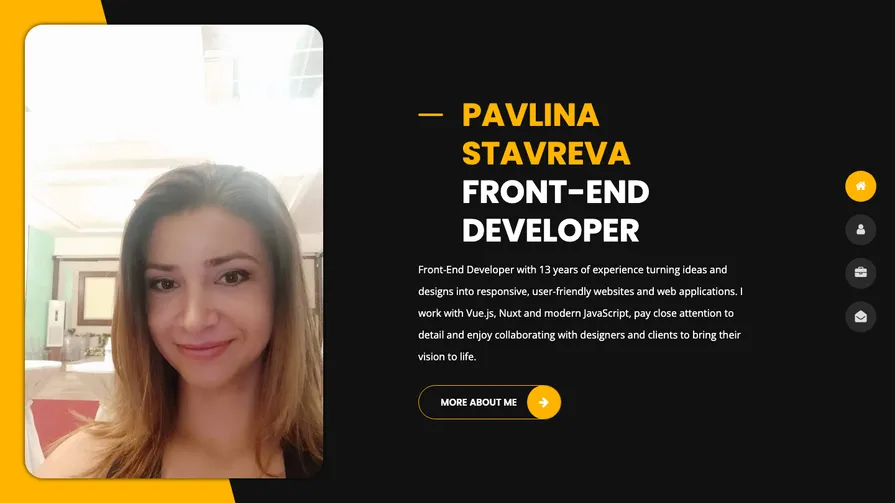
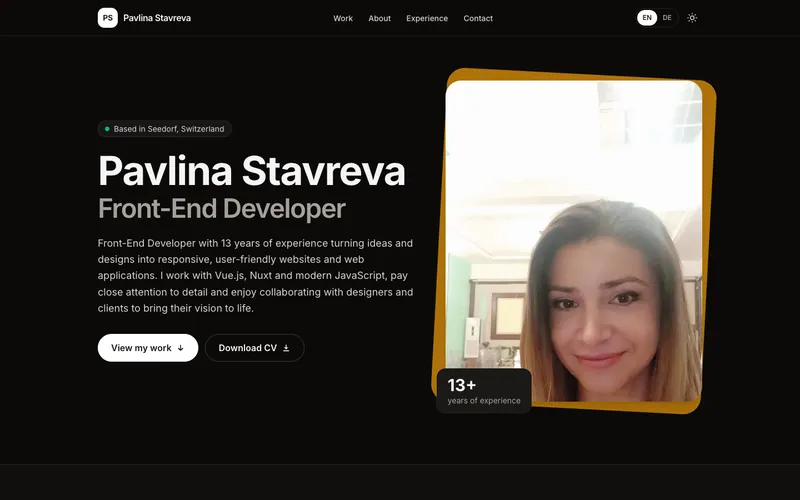
Add website templates and refresh portfolio screenshot

diff --git a/README.md b/README.md
@@ -11,13 +11,22 @@
 
 ![HTML5](https://img.shields.io/badge/HTML5-E34F26?style=flat&logo=html5&logoColor=white) ![CSS3](https://img.shields.io/badge/CSS3-1572B6?style=flat&logo=css3&logoColor=white) ![Sass](https://img.shields.io/badge/SCSS-CC6699?style=flat&logo=sass&logoColor=white) ![JavaScript](https://img.shields.io/badge/JavaScript-F7DF1E?style=flat&logo=javascript&logoColor=black) ![TypeScript](https://img.shields.io/badge/TypeScript-3178C6?style=flat&logo=typescript&logoColor=white) ![Vue.js](https://img.shields.io/badge/Vue.js-4FC08D?style=flat&logo=vuedotjs&logoColor=white) ![Nuxt](https://img.shields.io/badge/Nuxt-00DC82?style=flat&logo=nuxt&logoColor=white) ![React](https://img.shields.io/badge/React-20232A?style=flat&logo=react&logoColor=61DAFB) ![Tailwind CSS](https://img.shields.io/badge/Tailwind_CSS-06B6D4?style=flat&logo=tailwindcss&logoColor=white) ![Bootstrap](https://img.shields.io/badge/Bootstrap-7952B3?style=flat&logo=bootstrap&logoColor=white) ![Vite](https://img.shields.io/badge/Vite-646CFF?style=flat&logo=vite&logoColor=white) ![Git](https://img.shields.io/badge/Git-F05032?style=flat&logo=git&logoColor=white) ![Figma](https://img.shields.io/badge/Figma-F24E1E?style=flat&logo=figma&logoColor=white)
 
+### Website templates
+
+Templates I designed and built myself. Live demos below; they are available on [Gumroad](https://stavreva68.gumroad.com).
+
+| | |
+|:---:|:---:|
+| [<img src="images/handwerk.webp" width="390" alt="Handwerk">](https://handwerk-nuxt-demo.netlify.app)<br>**[Handwerk](https://handwerk-nuxt-demo.netlify.app)**<br><sub>Nuxt 4 · TypeScript · Tailwind · EN/DE/FR<br>[Get it](https://stavreva68.gumroad.com/l/handwerk-nuxt-template) · [Free Lite version](https://github.com/polyastavreva/handwerk-nuxt-lite)</sub> | [<img src="images/sonnwerk.webp" width="390" alt="Sonnwerk">](https://framer-designs-site.netlify.app/solar/)<br>**[Sonnwerk](https://framer-designs-site.netlify.app/solar/)**<br><sub>Solar installer template · HTML/CSS<br>[Get it](https://stavreva68.gumroad.com/l/sonnwerk-solar-template)</sub> |
+| [<img src="images/atelier-mira.webp" width="390" alt="Atelier Mira">](https://framer-designs-site.netlify.app/salon/)<br>**[Atelier Mira](https://framer-designs-site.netlify.app/salon/)**<br><sub>Hair salon template · HTML/CSS<br>[Get it](https://stavreva68.gumroad.com/l/atelier-mira-salon-template)</sub> | [<img src="images/lena-brandt.webp" width="390" alt="Lena Brandt">](https://framer-designs-site.netlify.app/portfolio/)<br>**[Lena Brandt](https://framer-designs-site.netlify.app/portfolio/)**<br><sub>Freelancer portfolio template · HTML/CSS<br>[Get it](https://stavreva68.gumroad.com/l/lena-brandt-portfolio-template)</sub> |
+
 ### Selected projects
 
 Most of my work is client projects, so the source code is not public. Here are live sites and earlier concept projects I built.
 
 | | | |
 |:---:|:---:|:---:|
-| [<img src="images/portfolio-site.webp" width="260" alt="Personal Portfolio">](https://pavlinastavreva.ch)<br>**[Personal Portfolio](https://pavlinastavreva.ch)**<br><sub>Vue 3 · Vite · SCSS · EN/DE</sub> | [<img src="images/sentimento.webp" width="260" alt="Sentimento">](https://sentimento-thassos.com/)<br>**[Sentimento](https://sentimento-thassos.com/)**<br><sub>Hotel website · Slavov/Studio</sub> | [<img src="images/eurobuild.webp" width="260" alt="Eurobuild">](https://eurobuild.bg/)<br>**[Eurobuild](https://eurobuild.bg/)**<br><sub>Company website · Slavov/Studio</sub> |
+| [<img src="images/portfolio-site.webp" width="260" alt="Personal Portfolio">](https://pavlinastavreva.ch)<br>**[Personal Portfolio](https://pavlinastavreva.ch)**<br><sub>Nuxt 4 · TypeScript · Tailwind · EN/DE</sub> | [<img src="images/sentimento.webp" width="260" alt="Sentimento">](https://sentimento-thassos.com/)<br>**[Sentimento](https://sentimento-thassos.com/)**<br><sub>Hotel website · Slavov/Studio</sub> | [<img src="images/eurobuild.webp" width="260" alt="Eurobuild">](https://eurobuild.bg/)<br>**[Eurobuild](https://eurobuild.bg/)**<br><sub>Company website · Slavov/Studio</sub> |
 | [<img src="images/kremak.webp" width="260" alt="Kremak">](https://www.kremak.com/)<br>**[Kremak](https://www.kremak.com/)**<br><sub>Security company · Slavov/Studio</sub> | [<img src="images/tm.webp" width="260" alt="TM Agency">](https://agencytm.com/)<br>**[TM Agency](https://agencytm.com/)**<br><sub>Agency website · Slavov/Studio</sub> | [<img src="images/wrap-around.webp" width="260" alt="Wrap Around">](https://wrap-around.eu/)<br>**[Wrap Around](https://wrap-around.eu/)**<br><sub>Company website · Slavov/Studio</sub> |
 | [<img src="images/speckids.webp" width="260" alt="Spec Kids">](https://speckids.org/)<br>**[Spec Kids](https://speckids.org/)**<br><sub>Non-profit website · Slavov/Studio</sub> | [<img src="images/haulage.webp" width="260" alt="1884 Haulage">](https://1884haulageservices.com/)<br>**[1884 Haulage](https://1884haulageservices.com/)**<br><sub>Company website · EdataChase</sub> | [<img src="images/dasel.webp" width="260" alt="Dasel">](https://www.dasel.bg/)<br>**[Dasel](https://www.dasel.bg/)**<br><sub>Company website · Joomla</sub> |
 | [<img src="images/messiah-church.webp" width="260" alt="Messiah Church">](https://www.messiah-church.com/en/)<br>**[Messiah Church](https://www.messiah-church.com/en/)**<br><sub>Church website · Joomla</sub> | [<img src="images/pushka.webp" width="260" alt="Pushka.eu">](https://pushka.eu/)<br>**[Pushka.eu](https://pushka.eu/)**<br><sub>Online shop · PHP · Bootstrap</sub> | <img src="images/pmrc.webp" width="260" alt="Palms Merkur Royale"><br>**Palms Merkur Royale**<br><sub>Casino & hotel · concept</sub> |
